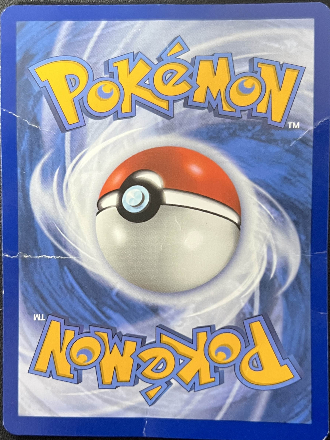
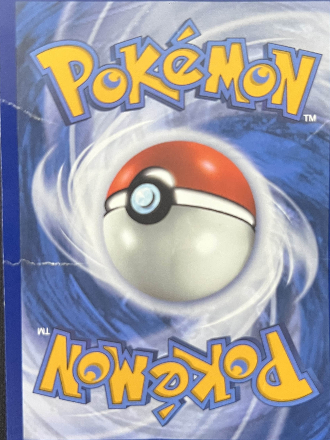
centering instead of fraying

diff --git a/main.cpp b/main.cpp
@@ -5,10 +5,10 @@
 #include <algorithm>
 #include <cmath>
 #include "utils.hpp"
-#include "global_vars.hpp"
 #include "fray.hpp"
 #include "grader.hpp"
 #include "scratch.hpp"
+#include "centering.hpp"
 
 int main(int argc, char **argv)
 {
@@ -22,8 +22,8 @@ int main(int argc, char **argv)
     const std::string template_image_file(argv[2]);
 
     // Read input and template images
-    userImg = cv::imread("../../" + input_image_file);
-    templateImg = cv::imread("../../" + template_image_file);
+    cv::Mat userImg = cv::imread("../../" + input_image_file);
+    cv::Mat templateImg = cv::imread("../../" + template_image_file);
 
     // cv::Mat userImg = cv::imread("../../images/back_rotate.png");
     // cv::Mat templateImg = cv::imread("../../images/back_rotate.png");
@@ -41,7 +41,9 @@ int main(int argc, char **argv)
     cv::Mat originalImg = userImg.clone();
 
     cv::Mat resizedImg;
+    cv::Mat resizedTemplate;
     cv::resize(userImg, resizedImg, cv::Size(WIDTH_CARD, HEIGHT_CARD));
+    cv::resize(templateImg, resizedTemplate, cv::Size(WIDTH_CARD, HEIGHT_CARD));
 
     cv::Mat gray, blurred, bin, edges, morph;
     cv::cvtColor(resizedImg, gray, cv::COLOR_BGR2GRAY);
@@ -100,39 +102,41 @@ int main(int argc, char **argv)
         drawRectangle(cornersImg, corners);
     }
 
-    cv::Mat warpedImg;
+    cv::Mat warpImg;
     if (scaled_corners.size() == 4)
     {
-        warpedImg = warpCard(originalImg, scaled_corners);
+        warpImg = warpCard(originalImg, scaled_corners);
     }
     else
     {
-        warpedImg = cv::Mat::zeros(HEIGHT_CARD, WIDTH_CARD, CV_8UC3);
+        warpImg = cv::Mat::zeros(HEIGHT_CARD, WIDTH_CARD, CV_8UC3);
     }
 
-    warpImg = warpedImg;
-    std::pair<cv::Mat, int> scratched = scratch(warpedImg);
-    std::vector<std::vector<cv::Mat>> imgArr = {{resizedImg, gray, blurred},
-                                                {edges, cornersImg, warpedImg},
-                                                {scratched.first, scratched.first, scratched.first}};
-    std::cout << "There are " << scratched.second << " scratches";
+    std::pair<cv::Mat, int> scratched = scratch(warpImg);
+    std::vector<std::vector<cv::Mat>> imgArr = {
+        {resizedImg, gray, blurred, scratched.first},
+        {edges, cornersImg, warpImg, scratched.first},
+    };
+    std::cout << "There are " << scratched.second << " scratches" << std::endl;
     cv::Mat pipeline = displayImage(imgArr);
 
     // Grading
 
-    int fray_pixels = calculateFrayPixels(warpImg, templateImg);
+    // int fray_pixels = calculateFrayPixels(warpImg, resizedTemplate);
+    int scratch_pixels = scratched.second;
+    double centering = calculateCentering(warpImg, resizedTemplate);
 
     Card card;
-    card.fray_pixels = fray_pixels;
-    card.scratch_pixels = 0;
-    card.dent_pixels = 0;
+    card.fray_pixels = 0;
+    card.scratch_pixels = scratch_pixels;
+    card.centering = centering;
 
     double grade = calculateGrade(card);
     card.grade = grade;
     printResults(card);
 
     cv::imshow("Card Detection", pipeline);
-    cv::imwrite("../../images/warp.png", warpedImg);
+    cv::imwrite("../../images/warp.png", warpImg);
     cv::waitKey(0);
     return 0;
 }

diff --git a/centering.cpp b/centering.cpp
@@ -1,0 +1,93 @@
+#include "centering.hpp"
+#include <opencv2/opencv.hpp>
+
+double calculateCentering(const cv::Mat &warpImg, const cv::Mat &templateImg)
+{
+    // Convert to grayscale
+    cv::Mat grayWarp, grayTemplate;
+    if (warpImg.channels() == 3)
+    {
+        cv::cvtColor(warpImg, grayWarp, cv::COLOR_BGR2GRAY);
+    }
+    else
+    {
+        grayWarp = warpImg.clone();
+    }
+
+    if (templateImg.channels() == 3)
+    {
+        cv::cvtColor(templateImg, grayTemplate, cv::COLOR_BGR2GRAY);
+    }
+    else
+    {
+        grayTemplate = templateImg.clone();
+    }
+
+    cv::Mat result;
+    cv::matchTemplate(grayWarp, grayTemplate, result, cv::TM_CCOEFF_NORMED);
+
+    double minVal, maxVal;
+    cv::Point minLoc, maxLoc;
+    cv::minMaxLoc(result, &minVal, &maxVal, &minLoc, &maxLoc);
+
+    // Convert correlation to deduction (0 = perfect, 1 = worst)
+    double templateDeduction = 1.0 - maxVal;
+
+    cv::Mat binary;
+    cv::threshold(grayWarp, binary, 50, 255, cv::THRESH_BINARY);
+
+    std::vector<std::vector<cv::Point>> contours;
+    cv::findContours(binary, contours, cv::RETR_EXTERNAL, cv::CHAIN_APPROX_SIMPLE);
+
+    double centerDeduction = 1.0;
+
+    if (!contours.empty())
+    {
+        size_t largestIdx = 0;
+        double largestArea = 0;
+        for (size_t i = 0; i < contours.size(); i++)
+        {
+            double area = cv::contourArea(contours[i]);
+            if (area > largestArea)
+            {
+                largestArea = area;
+                largestIdx = i;
+            }
+        }
+
+        cv::Rect cardRect = cv::boundingRect(contours[largestIdx]);
+        cv::Point cardCenter(cardRect.x + cardRect.width / 2, cardRect.y + cardRect.height / 2);
+        cv::Point imageCenter(grayWarp.cols / 2, grayWarp.rows / 2);
+
+        // Calculate normalized offset (0 to 1)
+        double dx = std::abs(cardCenter.x - imageCenter.x) * 2.0 / grayWarp.cols;
+        double dy = std::abs(cardCenter.y - imageCenter.y) * 2.0 / grayWarp.rows;
+
+        // Combine offsets with distance
+        centerDeduction = std::sqrt(dx * dx + dy * dy) / std::sqrt(2.0); // Normalize to 0-1
+    }
+
+    cv::Mat edgesWarp, edgesTemplate;
+    cv::Canny(grayWarp, edgesWarp, 50, 150);
+    cv::Canny(grayTemplate, edgesTemplate, 50, 150);
+
+    // Calculate edge similarity
+    cv::Mat edgeDiff;
+    cv::absdiff(edgesWarp, edgesTemplate, edgeDiff);
+    double edgeDiffScore = cv::countNonZero(edgeDiff) /
+                           static_cast<double>(edgesWarp.total());
+    double edgeDeduction = edgeDiffScore; // 0 to 1
+
+    const double WEIGHT_TEMPLATE = 0.4; // Overall similarity
+    const double WEIGHT_CENTER = 0.4;   // Center offset
+    const double WEIGHT_EDGE = 0.2;     // Edge alignment
+
+    double combinedDeduction = (templateDeduction * WEIGHT_TEMPLATE +
+                                centerDeduction * WEIGHT_CENTER +
+                                edgeDeduction * WEIGHT_EDGE);
+
+    double centeringScore = combinedDeduction * 2.0;
+    centeringScore = std::min(2.0, std::max(0.0, centeringScore));
+
+    return centeringScore;
+}

diff --git a/grader.cpp b/grader.cpp
@@ -7,16 +7,12 @@ double calculateGrade(Card &card)
     double grade = 10.0;
 
     // Maximum pixels for each defects
-    const int MAX_SCRATCH_PIXELS = 500;
-    const int MAX_DENT_PIXELS = 200;
-    const int MAX_FRAY_PIXELS = 300;
+    const int MAX_SCRATCH_PIXELS = 100;
 
     // More defects = lower grade
-    double scratch_deduction = (static_cast<double>(card.scratch_pixels) / MAX_SCRATCH_PIXELS) * 5.0; // Max 5.0 deduction
-    double dent_deduction = (static_cast<double>(card.dent_pixels) / MAX_DENT_PIXELS) * 3.0;          // Max 3.0 deduction
-    double fray_deduction = (static_cast<double>(card.fray_pixels) / MAX_FRAY_PIXELS) * 2.0;          // Max 2.0 deduction
+    double scratch_deduction = (static_cast<double>(card.scratch_pixels) / MAX_SCRATCH_PIXELS) * 8.0; // Max 8.0 deduction
 
-    grade -= (scratch_deduction + dent_deduction + fray_deduction);
+    grade -= (scratch_deduction + card.centering);
 
     grade = std::clamp(grade, 1.0, 10.0);
 
@@ -30,8 +26,7 @@ void printResults(Card &card)
     std::cout << "Card Grading Results:\n";
     std::cout << "=====================\n";
     std::cout << "Scratch Pixels: " << card.scratch_pixels << "\n";
-    std::cout << "Dent Pixels: " << card.dent_pixels << "\n";
-    std::cout << "Fray Pixels: " << card.fray_pixels << "\n";
+    std::cout << "Centering: " << card.centering << "\n";
     std::cout << "=====================\n";
     std::cout << "Final Grade: " << card.grade << "\n";
     std::cout << "=====================\n";

diff --git a/centering.hpp b/centering.hpp
@@ -1,0 +1,9 @@
+#ifndef CENTERING_HPP
+#define CENTERING_HPP
+
+#include <opencv2/opencv.hpp>
+#include <cmath>
+
+double calculateCentering(const cv::Mat &warpImg, const cv::Mat &templateImg);
+
+#endif // CENTERING_HPP

diff --git a/grader.hpp b/grader.hpp
@@ -3,9 +3,9 @@
 struct Card
 {
     double grade;
-    int scratch_pixels;
-    int dent_pixels;
     int fray_pixels;
+    double centering;
+    int scratch_pixels;
 };
 
 double calculateGrade(Card &card);
